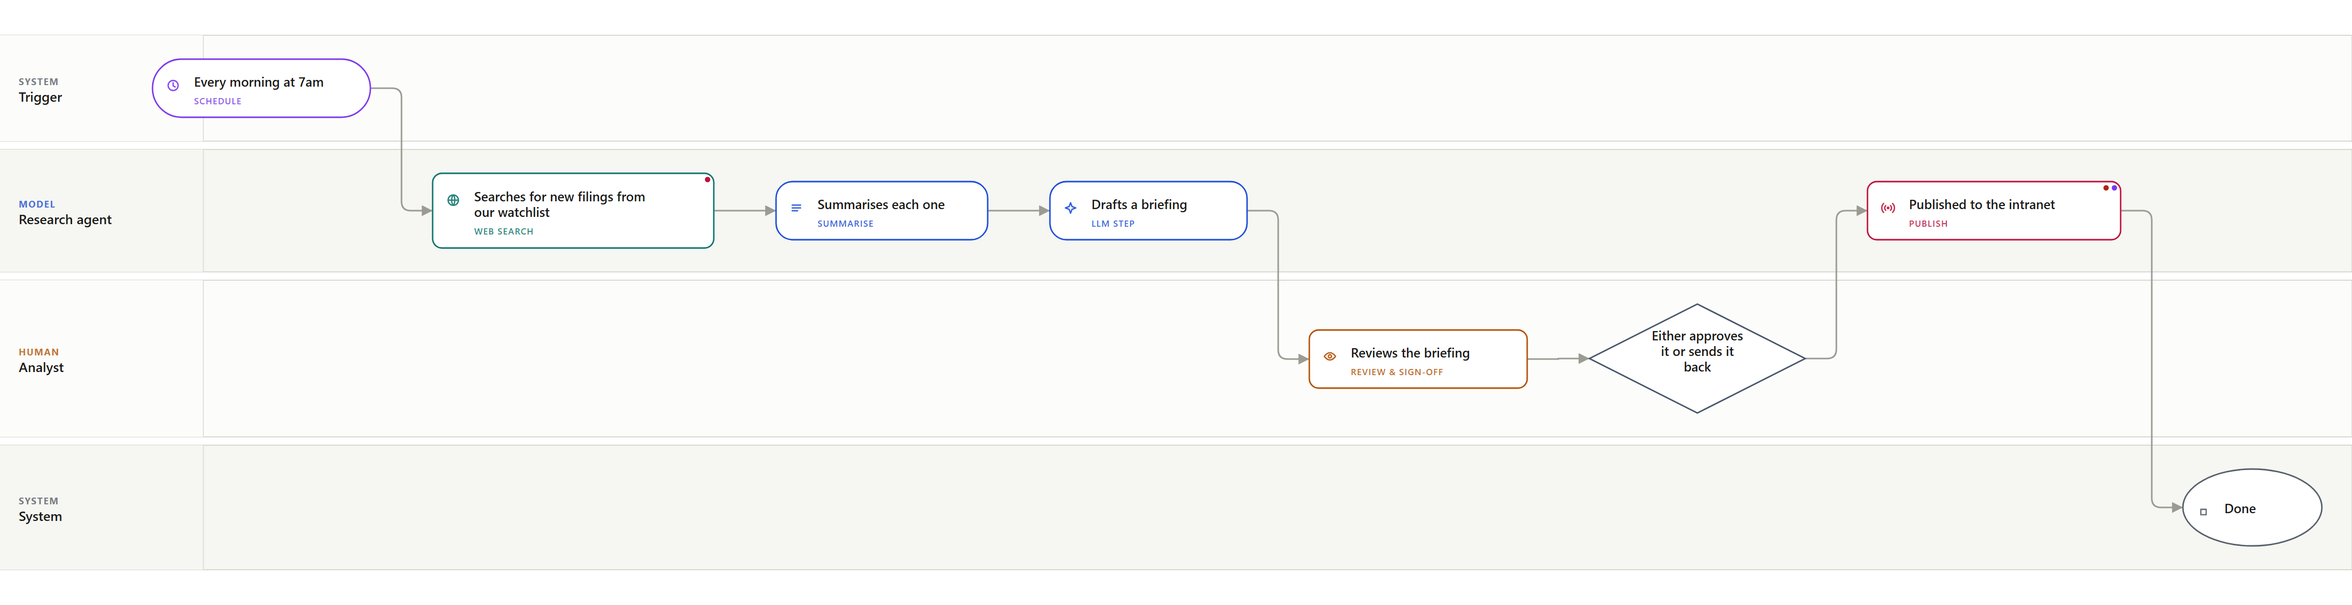
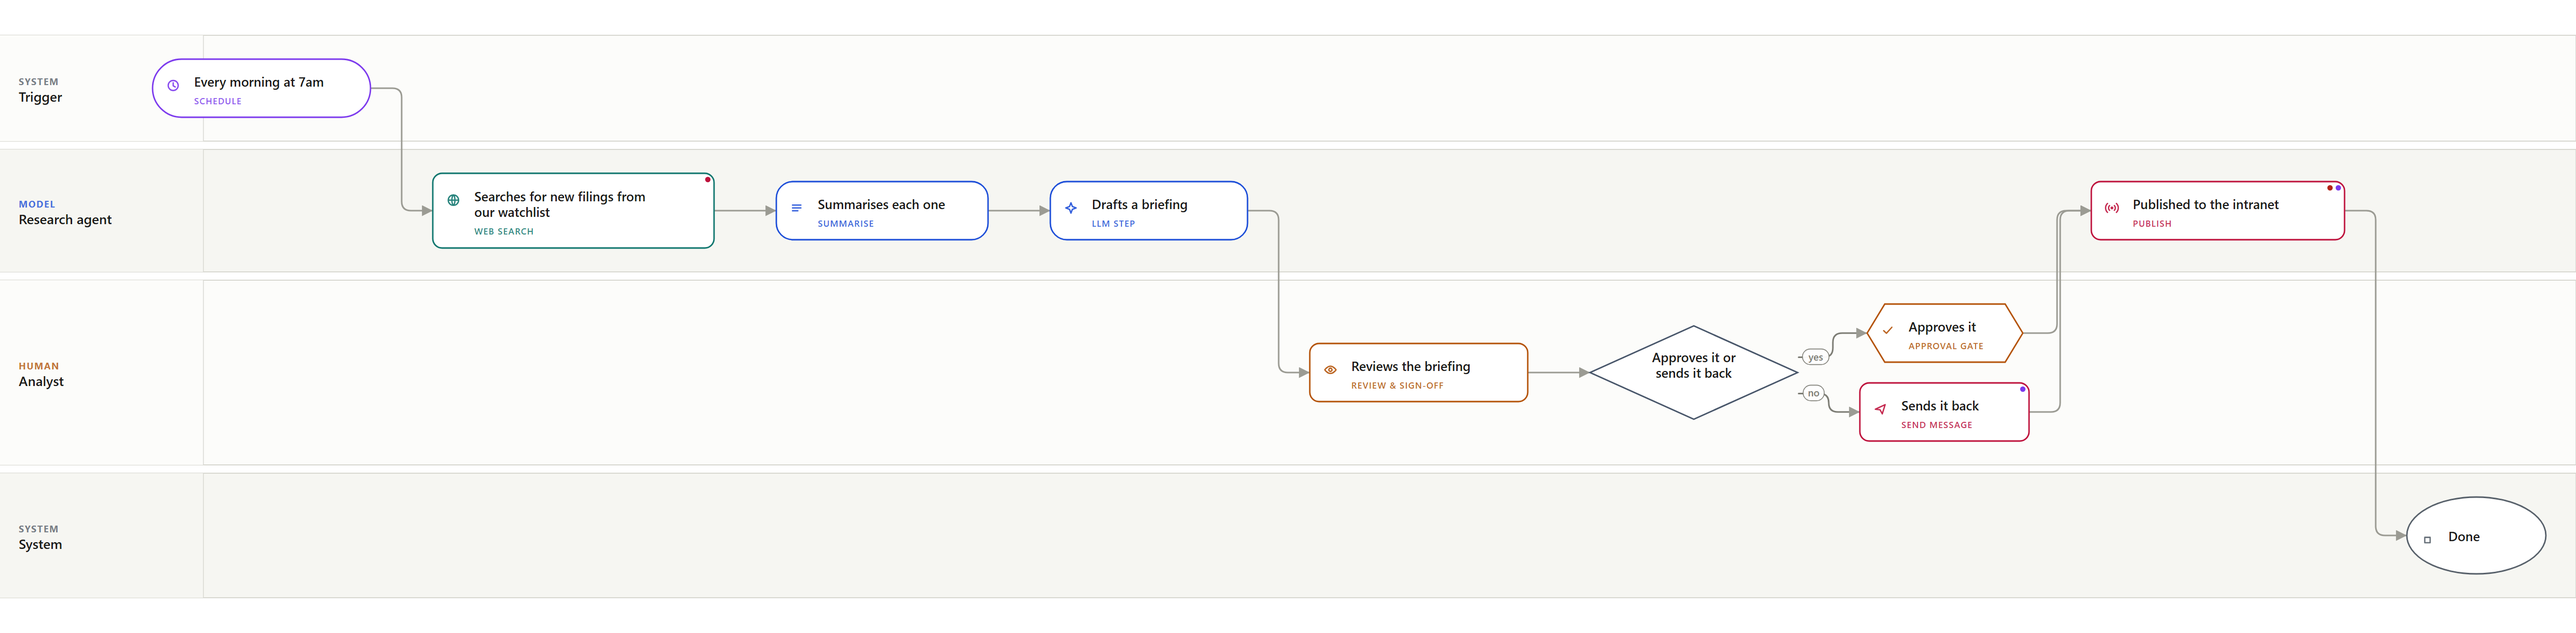
flow: close the either/or gap, stop crying wolf about failure paths
"either approve it or send it back" produced a diamond with one exit — it
signalled a branch without giving you one. Both arms are now built as steps and
rejoin the frontier, so the following step attaches to both. The arms stay with
whoever is choosing rather than being reassigned to the machine.

The "no failure path" flag fired at medium on essentially every realistic
diagram, which is how a risk panel teaches people to ignore it. A flow with no
failure handling at all stays medium; one that handles failure somewhere but not
everywhere becomes a note.

Twelve regression tests for the bugs found by reading last round's output, none
of which had coverage: branch chaining, the schedule/step split, "once approved"
classification, outbound lane attribution (both directions), either/or forks, the
System lane, and the severity split. 82 tests total.

diff --git a/test/flow-regressions.test.js b/test/flow-regressions.test.js
@@ -1,0 +1,171 @@
+/** Regression tests for parser bugs that only showed up when the diagram was rendered. */
+
+import test from 'node:test';
+import assert from 'node:assert/strict';
+
+import { interpret, fromText, analyze, layout, normalizeSpec } from '../src/flow/index.js';
+import { getPrimitive } from '../src/flow/primitives.js';
+
+const outEdges = (spec, id) => spec.edges.filter((e) => e.from === id);
+const node = (spec, id) => spec.nodes.find((n) => n.id === id);
+const byPrimitive = (spec, p) => spec.nodes.filter((n) => n.primitive === p);
+
+test('every step in a branch chains, instead of fanning out from the decision', () => {
+  const { spec } = interpret(
+    'If drift is detected the agent drafts a note and an engineer approves it and then the agent writes an alert and emails the rota.',
+  );
+  const decision = byPrimitive(spec, 'decision')[0];
+  assert.ok(decision, 'no decision node');
+
+  const leaving = outEdges(spec, decision.id);
+  assert.equal(leaving.length, 1, `the decision should have one exit per arm, got ${leaving.length}`);
+  assert.equal(leaving[0].fromPort, 'true');
+
+  // The rest of the arm is a chain.
+  const next = node(spec, leaving[0].to);
+  assert.ok(next, 'the branch target is missing');
+  const after = outEdges(spec, next.id);
+  assert.equal(after.length, 1, 'the branch should continue as a sequence, not fork again');
+});
+
+test('an if/else gives each arm exactly one edge from the decision', () => {
+  const { spec } = interpret(
+    'If the amount is over $5,000 a manager approves it; otherwise the agent auto-approves it.',
+  );
+  const decision = byPrimitive(spec, 'decision')[0];
+  const outgoing = outEdges(spec, decision.id);
+  assert.equal(outgoing.length, 2);
+  assert.deepEqual(outgoing.map((e) => e.fromPort).sort(), ['false', 'true']);
+});
+
+test('"every hour the pipeline reads rows" keeps the read as a step', () => {
+  const { spec } = interpret('Every hour the pipeline reads rows from the warehouse.');
+  assert.equal(spec.nodes.length >= 2, true, `expected trigger + step, got ${spec.nodes.map((n) => n.primitive).join(', ')}`);
+  assert.equal(spec.nodes[0].primitive, 'trigger-schedule');
+  assert.match(spec.nodes[0].label, /hour/i);
+  assert.ok(spec.nodes.some((n) => n.primitive === 'tool-read'), 'the read was swallowed by the trigger');
+});
+
+test('"once approved, it is published" is a publish, not an approval', () => {
+  const { spec } = interpret('An analyst reviews the brief.\nOnce approved it is published to the intranet.');
+  const publishes = byPrimitive(spec, 'publish');
+  assert.equal(publishes.length, 1, 'expected exactly one publish node');
+  assert.match(publishes[0].label, /published/i);
+});
+
+test('an unnamed outbound step does not inherit the human who approved it', () => {
+  // The realistic shape: a machine actor is in play, a human approves, then the
+  // machine acts. The outbound step belongs to the machine, not the approver.
+  const { spec } = interpret(
+    'The finance agent extracts the vendor and amount.\nA manager approves the invoice.\nFinally it posts the invoice to the ledger.',
+  );
+  const notify = byPrimitive(spec, 'notify')[0];
+  assert.ok(notify, 'no outbound node');
+  const lane = spec.lanes.find((l) => l.id === notify.lane);
+  assert.notEqual(lane.kind, 'human', `outbound step landed in the "${lane.name}" lane`);
+  assert.equal(lane.name, 'Finance agent');
+});
+
+test('with no machine actor named, an outbound step stays with the human', () => {
+  // Deliberately conservative: without a machine to attribute it to, guessing
+  // would be worse than leaving it where the reader can see and move it.
+  const { spec } = interpret('A manager approves the invoice.\nFinally it posts the invoice to the ledger.');
+  const notify = byPrimitive(spec, 'notify')[0];
+  const lane = spec.lanes.find((l) => l.id === notify.lane);
+  assert.equal(lane.kind, 'human');
+});
+
+test('"either approve it or send it back" is a real two-armed fork', () => {
+  const { spec } = interpret('An analyst reviews the briefing and either approves it or sends it back.');
+  const decision = byPrimitive(spec, 'decision')[0];
+  assert.ok(decision, 'no decision node');
+
+  const arms = outEdges(spec, decision.id);
+  assert.equal(arms.length, 2, `expected two arms, got ${arms.length}`);
+  assert.deepEqual(arms.map((a) => a.fromPort).sort(), ['false', 'true']);
+
+  // Both arms are built, and both belong to the person making the choice.
+  for (const arm of arms) {
+    const n = node(spec, arm.to);
+    assert.ok(n, 'arm target missing');
+    const lane = spec.lanes.find((l) => l.id === n.lane);
+    assert.equal(lane.kind, 'human', `arm "${n.label}" landed in the "${lane.name}" lane`);
+  }
+});
+
+test('both arms of an either/or rejoin the next step', () => {
+  const { spec } = interpret('Either approve it or send it back, then publish the result.');
+  const decision = byPrimitive(spec, 'decision')[0];
+  const arms = outEdges(spec, decision.id).map((e) => e.to);
+  const publish = byPrimitive(spec, 'publish')[0];
+  assert.ok(publish, 'no publish node');
+
+  const feeders = spec.edges.filter((e) => e.to === publish.id).map((e) => e.from);
+  for (const arm of arms) {
+    assert.ok(feeders.includes(arm), `arm ${arm} does not rejoin the flow`);
+  }
+});
+
+test('nodes with no actor share one System lane rather than borrowing a named one', () => {
+  const { spec } = interpret('Every hour the pipeline reads rows.\nThe agent summarises them.\nDone.');
+  const systemLanes = spec.lanes.filter((l) => l.id === 'system');
+  assert.equal(systemLanes.length, 1);
+  assert.equal(systemLanes[0].name, 'System');
+  assert.ok(spec.lanes.some((l) => l.name === 'Pipeline'), 'the named system actor should keep its own lane');
+});
+
+test('"no failure path" is a note when failure is handled somewhere, medium when nowhere', () => {
+  const none = analyze(fromText('trigger -> write record -> send email').spec).flags
+    .find((f) => f.id === 'no-error-path');
+  assert.ok(none);
+  assert.equal(none.severity, 'medium');
+
+  const some = normalizeSpec({
+    lanes: [{ id: 'l', name: 'L' }],
+    nodes: [
+      { id: 'a', primitive: 'trigger-event', lane: 'l' },
+      { id: 'b', primitive: 'tool-write', lane: 'l' },
+      { id: 'c', primitive: 'error', lane: 'l' },
+      { id: 'd', primitive: 'notify', lane: 'l' },
+    ],
+    edges: [{ from: 'a', to: 'b' }, { from: 'b', to: 'c', kind: 'error' }, { from: 'a', to: 'd' }],
+  }).spec;
+  const partial = analyze(some).flags.find((f) => f.id === 'no-error-path');
+  assert.ok(partial);
+  assert.equal(partial.severity, 'note');
+});
+
+test('every demo renders and produces a spec with no structural problems', async () => {
+  const { execFile } = await import('node:child_process');
+  const { promisify } = await import('node:util');
+  const run = promisify(execFile);
+  const { stdout } = await run(process.execPath, ['scripts/flow-render.js', '--demo', '0']);
+  assert.match(stdout, /^<svg/);
+});
+
+test('a dense, realistic flow survives interpret → layout → render', () => {
+  const text = [
+    'Every hour the pipeline reads rows from the warehouse and the agent summarises the metrics.',
+    'If drift is detected the agent drafts an incident note and an engineer approves it; otherwise it writes a clean-run marker.',
+    'Once approved the agent posts to the on-call channel and emails the rota.',
+    'In parallel it updates the dashboard and notifies the customer in Slack.',
+  ].join('\n');
+  const out = fromText(text);
+  assert.equal(validateNoOverlap(out.spec), true, 'nodes overlap');
+  assert.ok(out.spec.nodes.length >= 8, `only ${out.spec.nodes.length} nodes`);
+  assert.ok(out.spec.lanes.length >= 4);
+});
+
+function validateNoOverlap(spec) {
+  for (let i = 0; i < spec.nodes.length; i++) {
+    for (let j = i + 1; j < spec.nodes.length; j++) {
+      const a = spec.nodes[i];
+      const b = spec.nodes[j];
+      if (a.x < b.x + b.w && a.x + a.w > b.x && a.y < b.y + b.h && a.y + a.h > b.y) return false;
+    }
+  }
+  return true;
+}
+
+void layout;
+void getPrimitive;

diff --git a/src/flow/interpret.js b/src/flow/interpret.js
@@ -390,7 +390,7 @@ function makeStepFactory(builder) {
   return {
     get lastActor() { return lastActor; },
     setActor(next) { lastActor = next; },
-    step(clause) {
+    step(clause, { keepHuman = false } = {}) {
       clause = clause.replace(TRAILING_CONDITION, '').trim() || clause;
       const own = findActor(clause);
       let actor = own || lastActor;
@@ -417,7 +417,7 @@ function makeStepFactory(builder) {
 
       if (!primitive) primitive = actorKind(actor) === 'human' ? 'human-task' : 'llm';
 
-      if (!own && actor && actorKind(actor) === 'human' && lastMachine
+      if (!keepHuman && !own && actor && actorKind(actor) === 'human' && lastMachine
           && MACHINE_CATEGORIES.has(getPrimitive(primitive).category)) {
         actor = lastMachine;
       }
@@ -479,6 +479,31 @@ function parseProse(text, builder) {
       if (split.rest) text = split.rest; else continue;
     }
 
+    // "either approve it or send it back" is a real fork: two arms that
+    // rejoin afterwards. Only handled at top level; nested inside a branch it
+    // falls through to the plain decision node in step().
+    if (!open && /\beither\b/i.test(text)) {
+      const pair = text.match(/\beither\b\s*(.+?)\s+\bor\b\s+(.+)$/i);
+      if (pair) {
+        const armA = factory.step(tidy(pair[1]), { keepHuman: true });
+        const armB = factory.step(tidy(pair[2]), { keepHuman: true });
+        if (armA.label && armB.label) {
+          const decision = builder.node({
+            primitive: 'decision',
+            label: tidy(text.replace(/^.*?\beither\b/i, '')),
+            actor: factory.lastActor,
+            props: { condition: `${armA.label} or ${armB.label}` },
+          });
+          builder.join(frontier, decision.id);
+          const na = builder.node(armA);
+          const nb = builder.node(armB);
+          builder.edge(decision.id, na.id, 'branch', '', 'true');
+          builder.edge(decision.id, nb.id, 'branch', '', 'false');
+          frontier = [{ node: na.id }, { node: nb.id }];
+          continue;
+        }
+      }
+    }
     if (PARALLEL_CUE.test(low()) && /\band\b/i.test(low())) {
       const parts = text
         .replace(PARALLEL_CUE, ' ')

diff --git a/src/flow/hazards.js b/src/flow/hazards.js
@@ -144,12 +144,19 @@ export function analyze(spec) {
     return !hasErrorEdge && !downError;
   });
   if (noErrorPath.length) {
+    // A diagram with no failure handling at all is a real finding. One that
+    // handles failure somewhere but not everywhere is a note — flagging both at
+    // the same severity trains people to ignore the panel.
+    const handlesAnyFailure = spec.nodes.some((n) => n.primitive === 'error' || n.primitive === 'escalate');
     push({
       id: 'no-error-path',
-      severity: 'medium',
-      title: `${noErrorPath.length} side-effecting step${noErrorPath.length > 1 ? 's' : ''} with no failure path`,
+      severity: handlesAnyFailure ? 'note' : 'medium',
+      title: handlesAnyFailure
+        ? `${noErrorPath.length} side-effecting step${noErrorPath.length > 1 ? 's' : ''} bypasses the error path`
+        : `No failure path for ${noErrorPath.length} side-effecting step${noErrorPath.length > 1 ? 's' : ''}`,
       detail:
-        `Nothing handles a failure from ${noErrorPath.map((n) => `"${n.label}"`).join(', ')}. A timeout plus a bounded retry and a terminal state the agent can reason about — otherwise one hung dependency silently eats the run budget.`,
+        `Nothing handles a failure from ${noErrorPath.map((n) => `"${n.label}"`).join(', ')}. A timeout plus a bounded retry and a terminal state the agent can reason about — otherwise one hung dependency silently eats the run budget.`
+        + (handlesAnyFailure ? ' The flow has error handling elsewhere; route these into it.' : ''),
       nodes: noErrorPath.map((n) => n.id),
       sources: ['mcp-spec', 'owasp-aisvs-c09'],
     });

diff --git a/README.md b/README.md
@@ -40,7 +40,7 @@ node bin/plan.js --answers my-answers.json --format json
 node bin/plan.js --list-presets
 
 # Checks
-npm test                       # 70 behavioural + integrity tests
+npm test                       # 82 behavioural + integrity tests
 npm run check                  # tests + referential integrity + doc freshness
 ```
 
